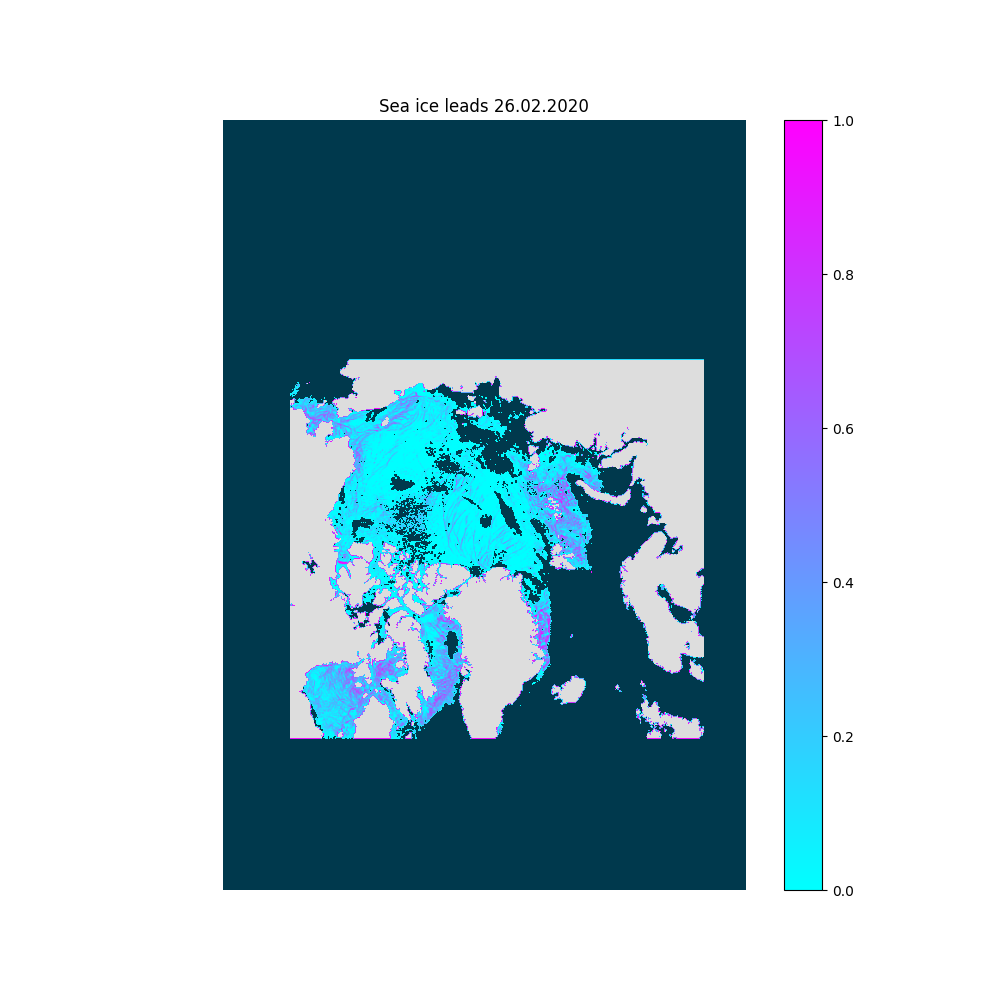
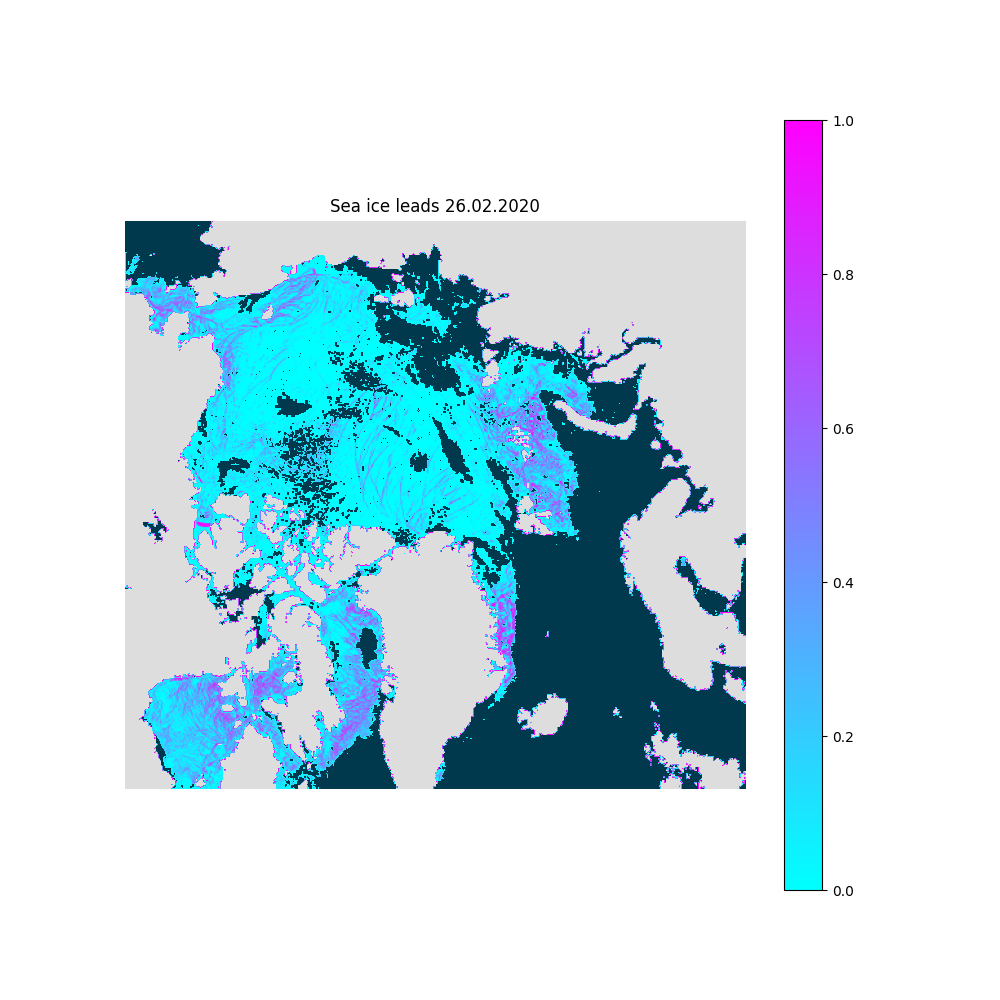
commit lars

diff --git a/leads.py b/leads.py
@@ -9,15 +9,15 @@ class Lead:
         self.date = date
         path = f'./data/{self.date}.nc'
         ds_lead = nc.Dataset(path)
-        self.lead_frac = ds_lead['Lead Fraction'][:]
+        self.lead_frac = ds_lead['Lead Fraction'][:].data
         self.del_row, self.del_col = [], []
 
-    def clear_matrix_ind(self, trigger=-0.1):
+    def clear_matrix(self, trigger=-0.1):
         # Returns indices of rows and columns without any data
         trigger = np.float32(trigger)
         m, n = self.lead_frac.shape
         row_clear, col_clear = np.repeat(trigger, n), np.repeat(trigger, m)
-        print(type(trigger), trigger, type(self.lead_frac[0][0]), self.lead_frac[0][10])
+
         for i, row in enumerate(self.lead_frac):
             if np.array_equal(row, row_clear):
                 self.del_row.append(i)
@@ -55,17 +55,24 @@ class CoordinateGrid:
         self.lat = ds_latlon['Lat Grid'][:]
         self.lon = ds_latlon['Lon Grid'][:]
 
+    def clear_grid(self, rows, cols):
+        self.lat = np.delete(self.lat, rows, 0)
+        self.lat = np.delete(self.lat, cols, 1)
+        self.lon = np.delete(self.lon, rows, 0)
+        self.lon = np.delete(self.lon, cols, 1)
+
 
 if __name__ == '__main__':
-    '''
+
     days = list(range(1, 29))
     dates = [f'202002{str(day).zfill(2)}' for day in days]
     for date in dates:
         lead = Lead(date)
+        lead.clear_matrix()
         lead.visualize_matrix()
-    '''
+
 
     lead = Lead('20200217')
     print(lead.lead_frac.shape)
-    clear = lead.clear_matrix_ind()
+    lead.clear_matrix()
     print(lead.lead_frac.shape)

diff --git a/plot.py b/plot.py
@@ -1,24 +1,23 @@
 import matplotlib.pyplot as plt
 import cartopy.crs as ccrs
-import numpy
 import numpy as np
 import leads
 
 extent = [-50, 120, 60, 90]
-#ax = plt.axes(projection=ccrs.NorthPolarStereo(0))
-#ax.set_extent(extent, crs=ccrs.PlateCarree())
-#ax.gridlines()
-#ax.set_global()
-#ax.coastlines(resolution='50m')
+ax = plt.axes(projection=ccrs.NorthPolarStereo(0))
+ax.set_extent(extent, crs=ccrs.PlateCarree())
+ax.gridlines()
+ax.set_global()
+ax.coastlines(resolution='50m')
 
 grid = leads.CoordinateGrid()
 date = '20200217'
 lead = leads.Lead(date)
+lead.clear_matrix()
+grid.clear_grid(lead.del_row, lead.del_col)
+print(grid.lon.shape, grid.lat.shape, lead.lead_frac.shape)
+print(type(lead.lead_frac))
+# np.random.rand(441, 481)
+ax.contourf(grid.lon, grid.lat, lead.lead_frac, cmap='RdYlBu', transform=ccrs.PlateCarree())
 
-print(np.min(grid.lat), np.max(grid.lat))
-print(np.min(grid.lon), np.max(grid.lon))
-lat = grid.lat.flatten()
-lon = grid.lon.flatten()
-#plt.contourf(grid.lon, grid.lat, numpy.zeros(np.shape(grid.lat)), cmap='RdYlBu')
-plt.scatter(lat, lon)
 plt.show()
